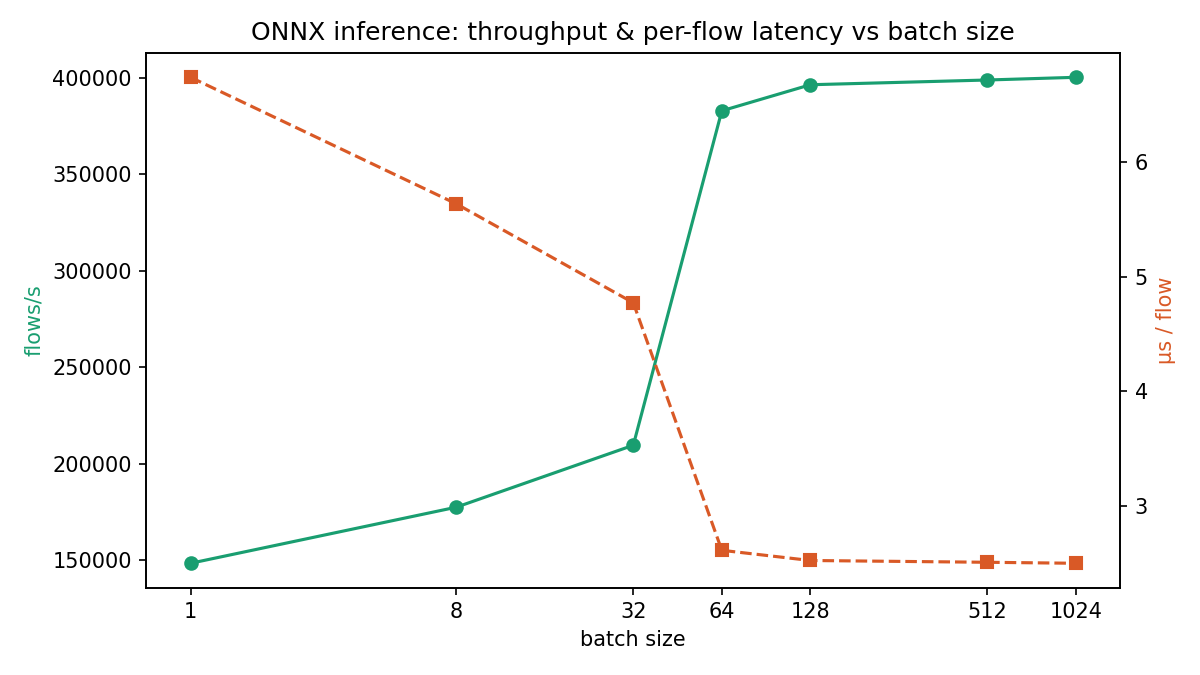
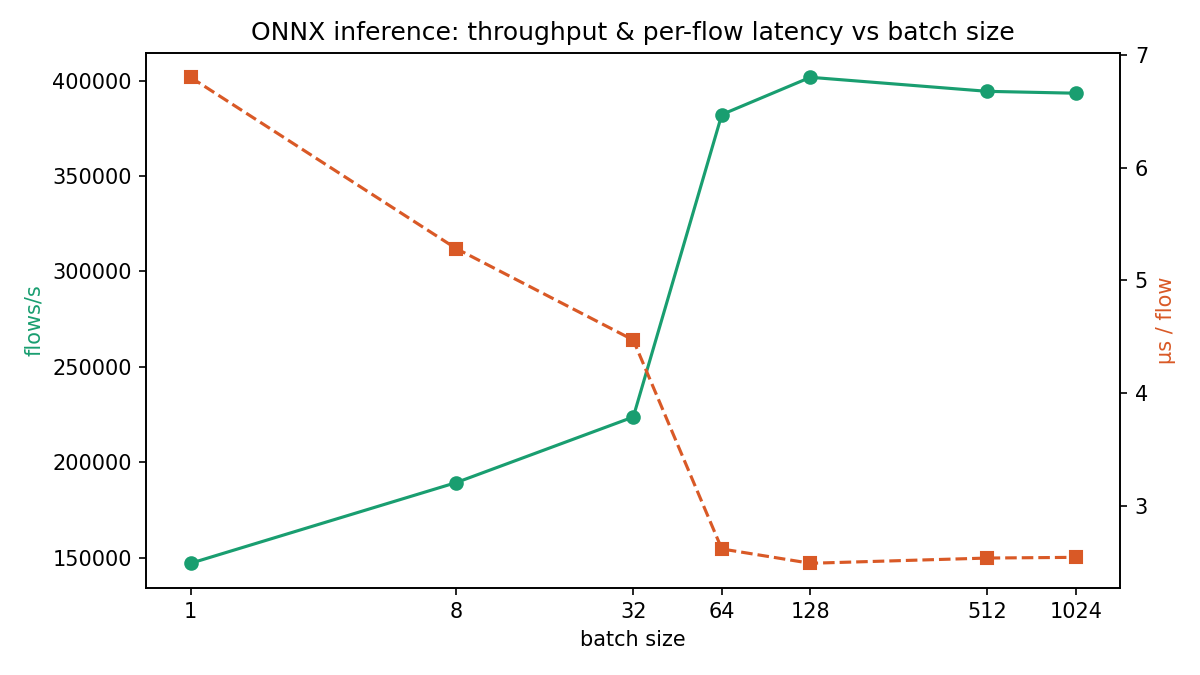
Refresh benchmark artifacts and the remediation log

diff --git a/demo/results/BENCHMARK.md b/demo/results/BENCHMARK.md
@@ -2,7 +2,7 @@
 
 ```
 IoT-IDS SYSTEM BENCHMARK   host=macOS-26.6.1-arm64-arm-64bit
-python=3.10.14  time=2026-08-19 23:37
+python=3.10.14  time=2026-08-20 00:44
 
 ====================================================================
   1. MODEL PARAMETERS & FOOTPRINT
@@ -27,22 +27,22 @@ python=3.10.14  time=2026-08-19 23:37
   2. ONNX INFERENCE LATENCY & THROUGHPUT
 ====================================================================
    batch   mean_ms   p50_ms   p99_ms   us/flow      flows/s
-       1    0.0067   0.0067   0.0073     6.740      148,363
-       8    0.0451   0.0448   0.0530     5.636      177,422
-      32    0.1527   0.1518   0.1631     4.772      209,544
-      64    0.1671   0.1551   0.2307     2.612      382,913
-     128    0.3229   0.2988   0.4435     2.523      396,422
-     512    1.2836   1.2006   1.7153     2.507      398,883
-    1024    2.5582   2.3862   3.4164     2.498      400,282
+       1    0.0068   0.0068   0.0075     6.801      147,036
+       8    0.0423   0.0421   0.0438     5.282      189,339
+      32    0.1430   0.1429   0.1476     4.470      223,719
+      64    0.1674   0.1555   0.2128     2.616      382,261
+     128    0.3186   0.2960   0.4456     2.489      401,790
+     512    1.2981   1.2087   1.8405     2.535      394,429
+    1024    2.6027   2.4396   3.5545     2.542      393,441
 
-  single-flow latency    : 6.7 us (p99 7.3 us)
-  peak throughput        : 400,282 flows/s (batch 1024)
+  single-flow latency    : 6.8 us (p99 7.5 us)
+  peak throughput        : 401,790 flows/s (batch 128)
 
 ====================================================================
   3. NATIVE C MODEL (MCU PATH)
 ====================================================================
-  C ids_predict latency  : 1214.7 ns/flow (1.215 us)
-  C throughput           : 823,221 flows/s (single thread)
+  C ids_predict latency  : 1214.6 ns/flow (1.215 us)
+  C throughput           : 823,330 flows/s (single thread)
   runtime deps           : none (pure C99, ~130 B stack)
 
 ====================================================================
@@ -53,7 +53,7 @@ python=3.10.14  time=2026-08-19 23:37
 ====================================================================
   5. END-TO-END (pcap -> verdicts)
 ====================================================================
-  4,674 flows classified in 100.7 ms (46,435 flows/s end-to-end)
+  4,674 flows classified in 100.2 ms (46,651 flows/s end-to-end)
   detected 4,575 attack flows / 99 benign
 
 ====================================================================
@@ -83,8 +83,8 @@ python=3.10.14  time=2026-08-19 23:37
 ====================================================================
   7. MEMORY FOOTPRINT
 ====================================================================
-  daemon runtime RSS     : 57.3 MB (onnxruntime + numpy only, clean process)
-  benchmark process RSS  : 312.7 MB (harness — imports pandas/xgboost; NOT the daemon)
+  daemon runtime RSS     : 56.1 MB (onnxruntime + numpy only, clean process)
+  benchmark process RSS  : 314.9 MB (harness — imports pandas/xgboost; NOT the daemon)
   edge runtime deps      : onnxruntime + numpy (+ scapy for live sniff)
   MCU C model RAM        : ~130 bytes stack, 0 heap
 
@@ -92,7 +92,7 @@ python=3.10.14  time=2026-08-19 23:37
   8. RASPBERRY PI 4 PROJECTION (host x 12)
 ====================================================================
   host                   : Apple M4 (arm64)
-  ONNX single-flow (Pi)  : ~80.9 us/flow (~12,364 flows/s)
-  C model (Pi)           : ~14.58 us/flow (~68,602 flows/s)
+  ONNX single-flow (Pi)  : ~81.6 us/flow (~12,253 flows/s)
+  C model (Pi)           : ~14.57 us/flow (~68,611 flows/s)
   verdict                : easily real-time on a Pi 4 for home/IIoT link rates; sniffing/aggregation, not inference, is the limit.
 ```

diff --git a/vault/Remediation Log.md b/vault/Remediation Log.md
@@ -34,7 +34,8 @@ Work done against [[Review 2026-08-19]], in order. Branch
 | F18 | [[F18 - Pipeline ONNX export silently ships a broken model]] | critical | fixed — *found during remediation* |
 | F19 | [[F19 - IoT-23 labels parsed as all-benign]] | critical | fixed — *found during remediation* |
 
-Test suite: **23 passed / 1 failed** before → **40 passed / 0 failed** after.
+Test suite: **23 passed / 1 failed** before → **40 passed / 0 failed** after,
+runnable under both the standalone runner and pytest, with CI on every push.
 
 ## Commits
 
@@ -50,6 +51,14 @@ Test suite: **23 passed / 1 failed** before → **40 passed / 0 failed** after.
 | `1a9e543` | secret hygiene (see below) |
 | `443a0be` | F13–F15, F18 — scenario split, background mixing, ablation, export fix |
 | `ed28743` | F16 — IPv6, snaplen, TCP teardown, dead code, pickles |
+| `7f91801` | F17 — benchmark regenerated, documented counts asserted, vault completed |
+| `604ff2b` | teardown rule + corpus key correction (caught by the end-to-end run) |
+| `119f3bd` | SFAF scaler removed; pytest front-end + GitHub Actions CI |
+| — | inline-bridge deployment guide (`deploy/README_PI.md` §6) |
+| — | pcapng reader (the old one mis-parsed rather than rejected) |
+| — | syslog/CEF export to a SIEM |
+| — | F19 — IoT-23 labels, memory-bounded loader, taxonomy |
+| — | EXP03 threshold transfer + eleven-dataset rerun |
 
 ## Course corrections worth recording
 
@@ -112,6 +121,21 @@ recall 1.00 → 0.66), and `build_corpus` compared bare 5-tuples against the new
 
 Unit tests assert the property you thought to check. Running the whole thing and
 looking at the output is what catches the property you did not.
+
+### A third self-inflicted trap, caught by its own guard
+
+`code/threshold_transfer.py` was written *because of*
+[[F02 - Cross-domain F1 includes degenerate classifiers]] — and its first run
+fell straight into the same hole. On domains with no ranking signal, fitting a
+threshold to maximise F1 rediscovers the all-attack classifier, and the script
+duly reported "recovered 99.7% of the calibration gap" for two datasets whose
+oracle F1 was exactly the trivial 0.667.
+
+Knowing about a failure mode is not the same as being immune to it. The fix was
+structural rather than attentional: every row now carries
+`oracle_lift = oracle_f1 − trivial_f1`, and the summary refuses to claim a win
+without it. Same shape as the export guards — make the check able to fail, not
+merely able to print.
 
 ## The through-line
 
